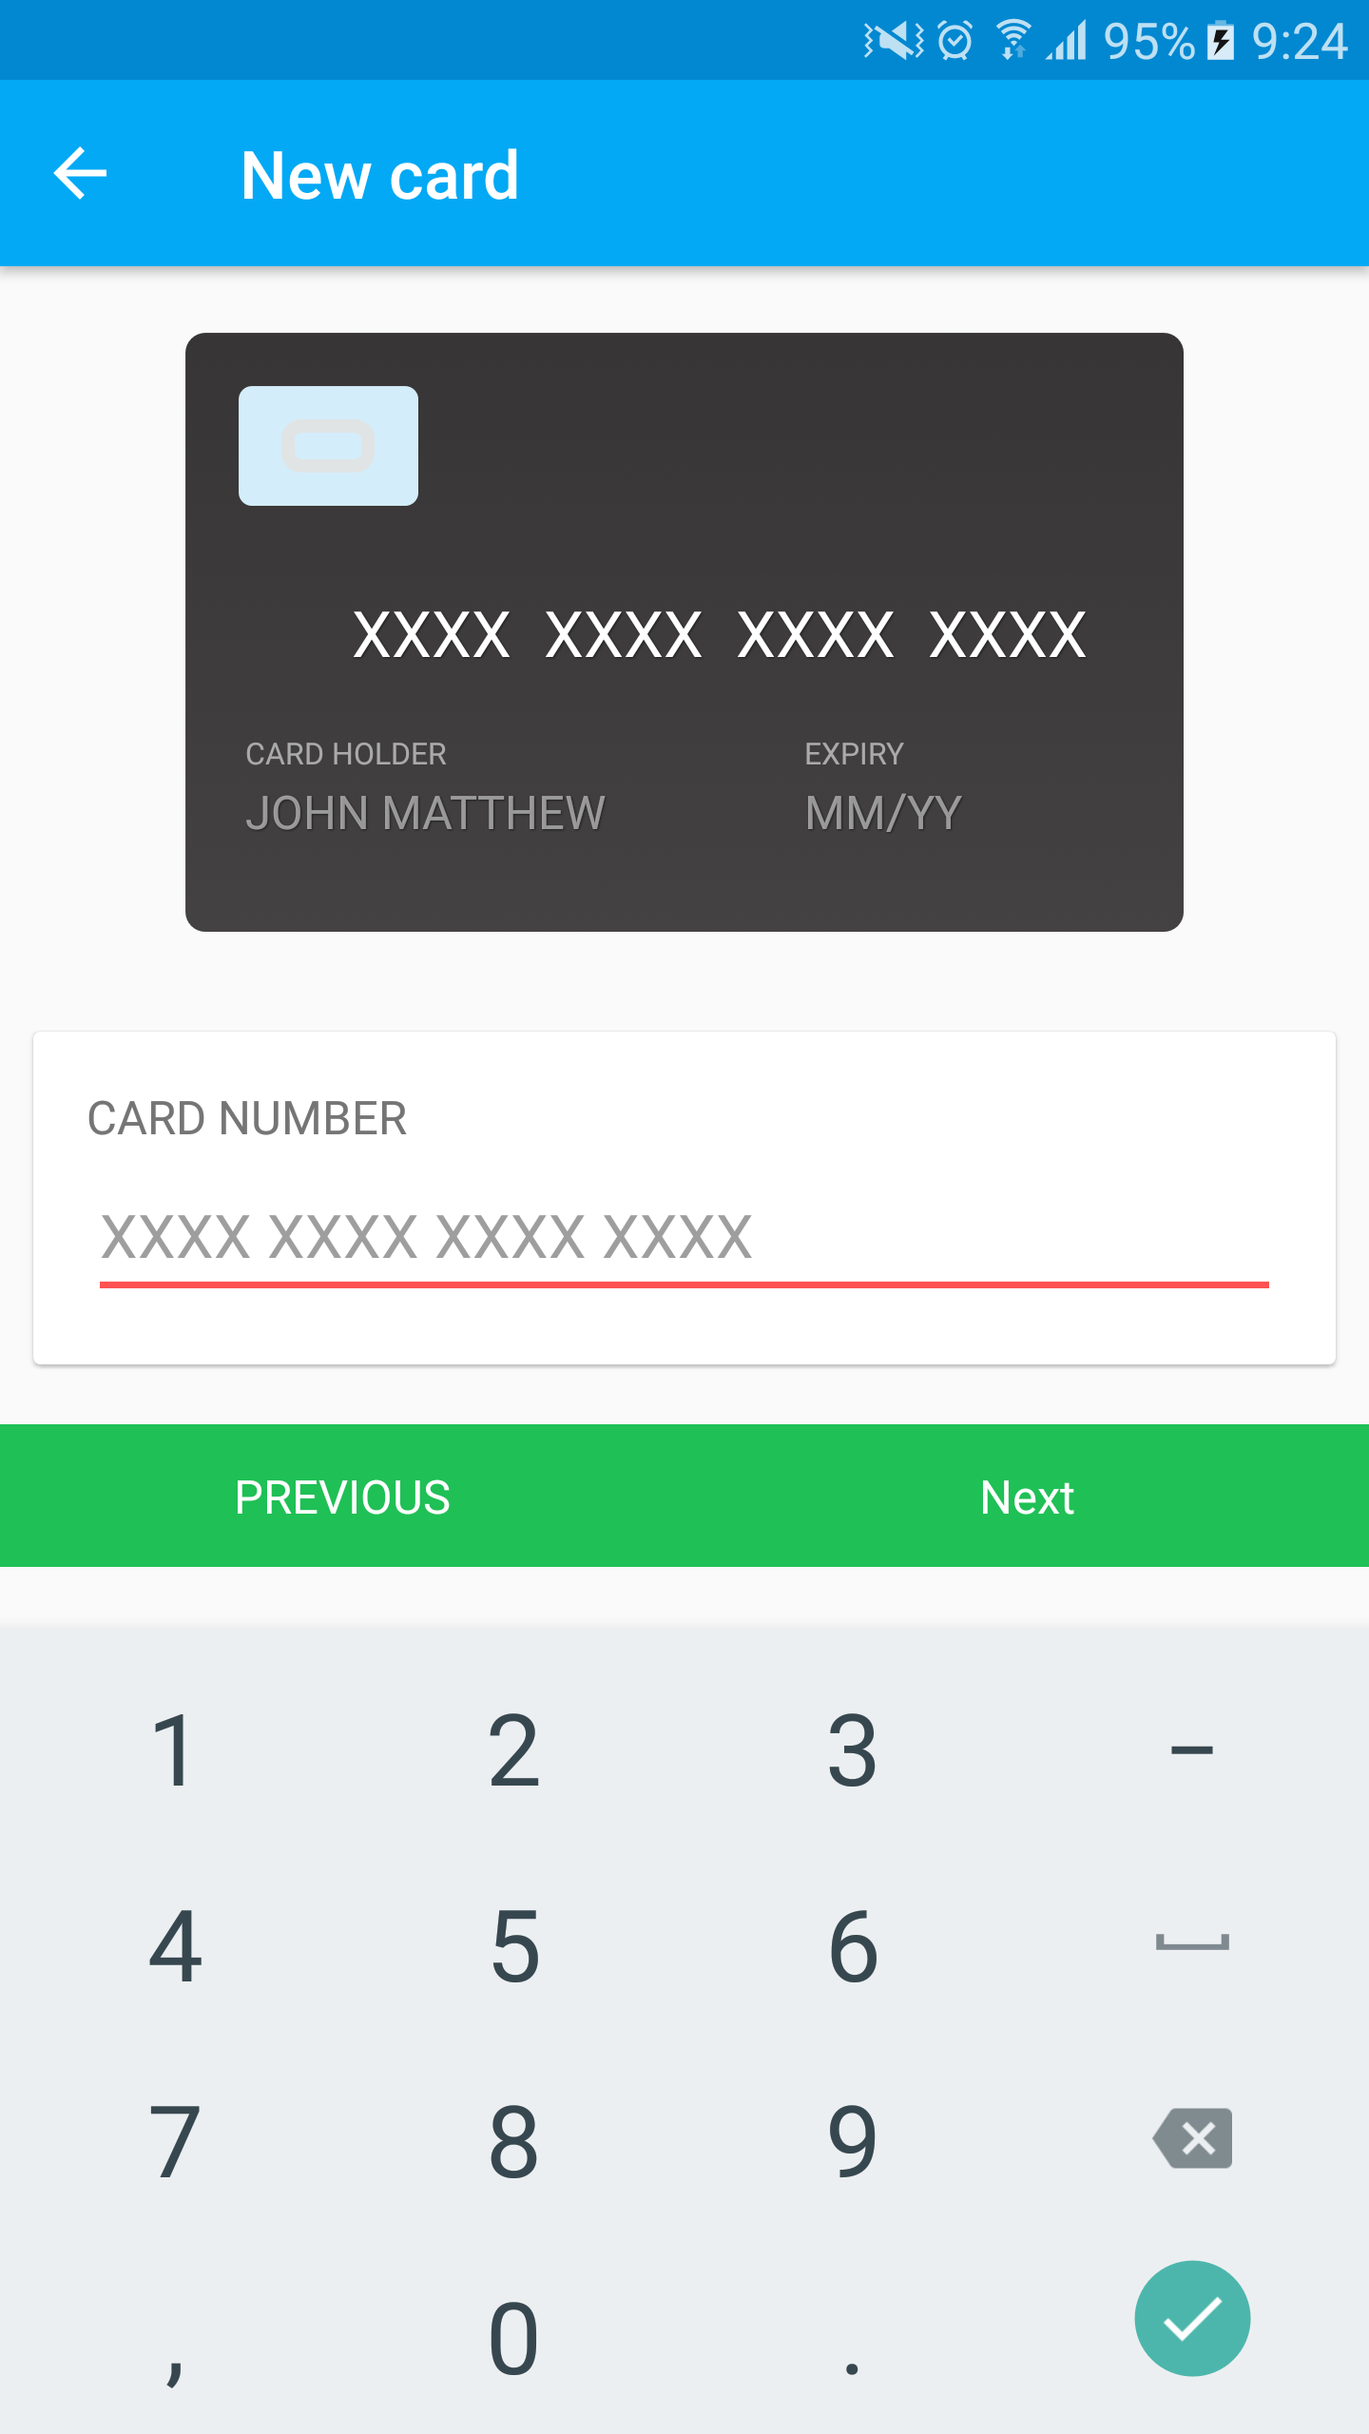
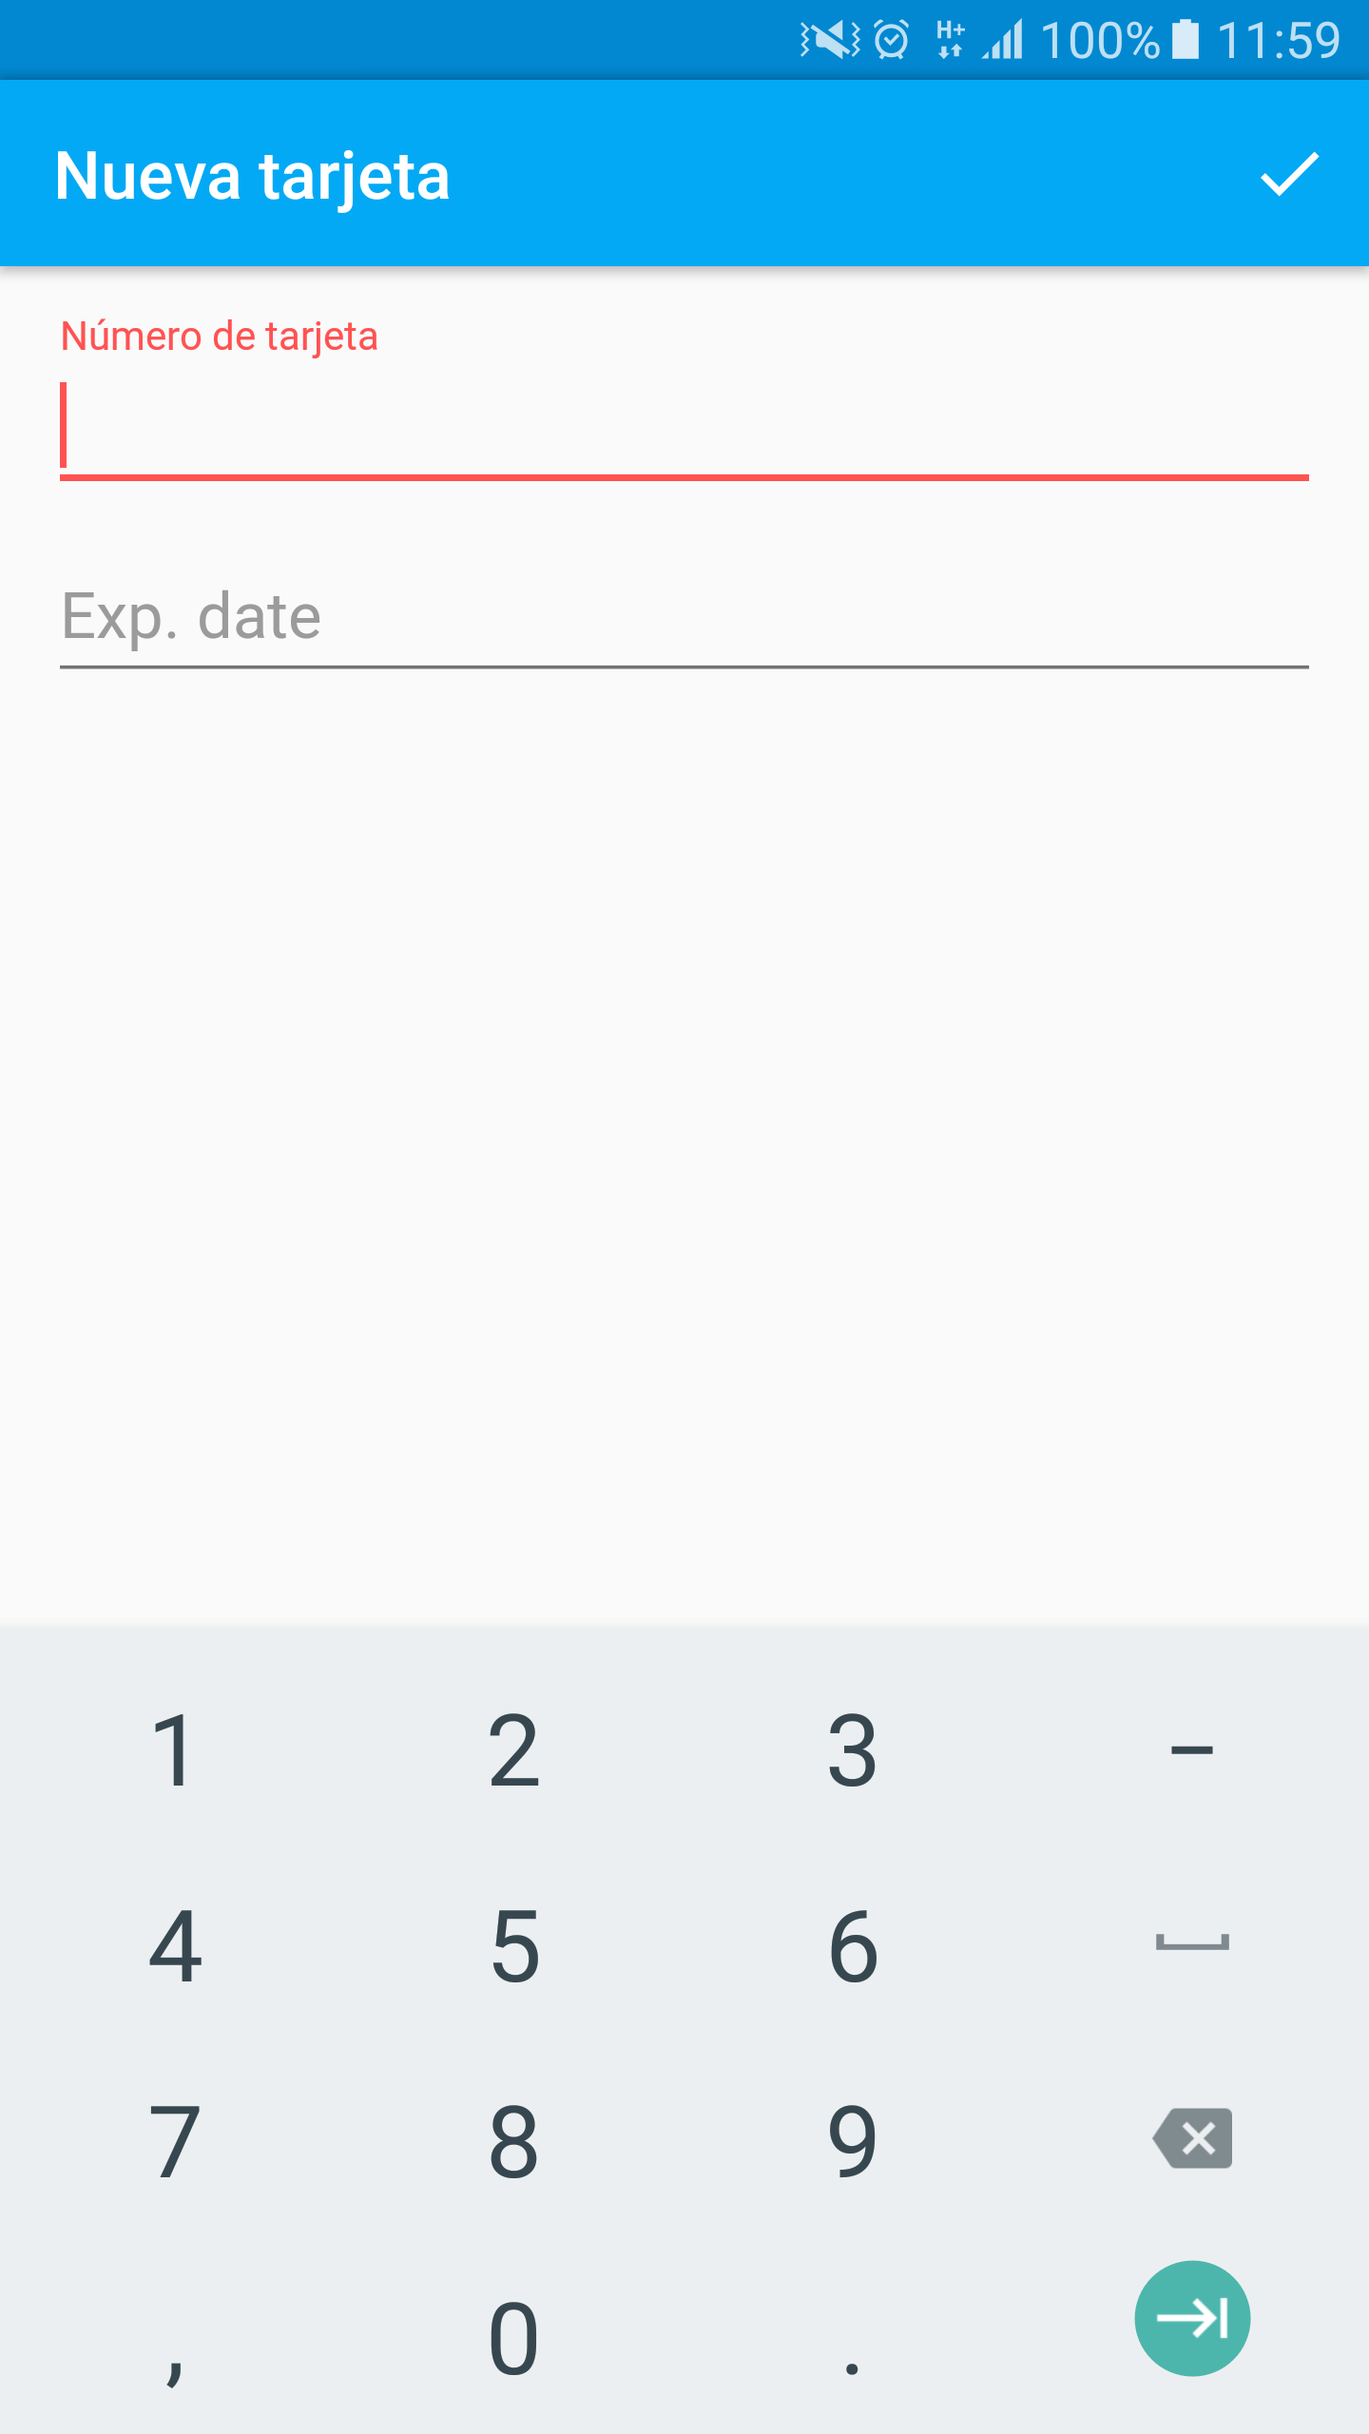
Improved card form

diff --git a/app/src/main/java/com/mrebollob/m2p/utils/CardNumberTextWatcher.kt b/app/src/main/java/com/mrebollob/m2p/utils/CardNumberTextWatcher.kt
@@ -1,0 +1,95 @@
+/*
+ * Copyright (c) 2017. Manuel Rebollo Báez
+ *
+ * Licensed under the Apache License, Version 2.0 (the "License");
+ * you may not use this file except in compliance with the License.
+ * You may obtain a copy of the License at
+ *
+ *    http://www.apache.org/licenses/LICENSE-2.0
+ *
+ * Unless required by applicable law or agreed to in writing, software
+ * distributed under the License is distributed on an "AS IS" BASIS,
+ * WITHOUT WARRANTIES OR CONDITIONS OF ANY KIND, either express or implied.
+ * See the License for the specific language governing permissions and
+ * limitations under the License.
+ */
+
+package com.mrebollob.m2p.utils
+
+import android.text.Editable
+import android.widget.EditText
+
+
+class CardNumberTextWatcher constructor(val numberEditText: EditText,
+                                        actionListener: CardActionListener)
+    : CreditCardTextWatcher(actionListener) {
+
+    val MAX_LENGTH_CARD_NUMBER_WITH_SPACES = 19
+    val MAX_LENGTH_CARD_NUMBER = 16
+    val SPACE_SEPERATOR = " "
+
+    override fun afterTextChanged(s: Editable?) {
+        val cursorPosition = numberEditText.selectionEnd
+        val previousLength = numberEditText.text.length
+
+        val cardNumber = handleCardNumber(s.toString())
+        val modifiedLength = cardNumber.length
+
+        numberEditText.removeTextChangedListener(this)
+        numberEditText.setText(cardNumber)
+        numberEditText.setSelection(if (cardNumber.length > MAX_LENGTH_CARD_NUMBER_WITH_SPACES)
+            MAX_LENGTH_CARD_NUMBER_WITH_SPACES else cardNumber.length)
+        numberEditText.addTextChangedListener(this)
+
+        if (modifiedLength <= previousLength && cursorPosition < modifiedLength) {
+            numberEditText.setSelection(cursorPosition)
+        }
+
+        if (cardNumber.replace(SPACE_SEPERATOR, "").length == MAX_LENGTH_CARD_NUMBER) {
+            onComplete()
+        }
+    }
+
+    fun handleCardNumber(inputCardNumber: String): String {
+        return handleCardNumber(inputCardNumber, " ")
+    }
+
+    fun handleCardNumber(inputCardNumber: String, seperator: String): String {
+        val formattingText = inputCardNumber.replace(seperator, "")
+        var text: String
+        if (formattingText.length >= 4) {
+            text = formattingText.substring(0, 4)
+            if (formattingText.length >= 8) {
+                text = text + seperator + formattingText.substring(4, 8)
+            } else if (formattingText.length > 4) {
+                text = text + seperator + formattingText.substring(4)
+            }
+
+            if (formattingText.length >= 12) {
+                text = text + seperator + formattingText.substring(8, 12)
+            } else if (formattingText.length > 8) {
+                text = text + seperator + formattingText.substring(8)
+            }
+
+            if (formattingText.length >= 16) {
+                text = text + seperator + formattingText.substring(12)
+            } else if (formattingText.length > 12) {
+                text = text + seperator + formattingText.substring(12)
+            }
+
+            return text
+        } else {
+            text = formattingText.trim { it <= ' ' }
+            return text
+        }
+    }
+
+    override fun getIndex(): Int {
+        return 0
+    }
+
+    override fun focus() {
+        numberEditText.requestFocus()
+        numberEditText.selectAll()
+    }
+}

diff --git a/app/src/main/java/com/mrebollob/m2p/utils/ExpDateTextWatcher.kt b/app/src/main/java/com/mrebollob/m2p/utils/ExpDateTextWatcher.kt
@@ -17,27 +17,89 @@
 package com.mrebollob.m2p.utils
 
 import android.content.Context
-import android.text.Editable
-import android.text.TextWatcher
-import android.widget.TextView
+import android.widget.EditText
+import com.cooltechworks.creditcarddesign.CreditCardUtils
+import com.mrebollob.m2p.R
 import java.util.*
 
 
-class ExpDateTextWatcher constructor(val context: Context, val cardExpiryView: TextView) : TextWatcher {
+class ExpDateTextWatcher constructor(val context: Context, val dateEditText: EditText,
+                                     actionListener: CardActionListener)
+    : CreditCardTextWatcher(actionListener) {
 
-    private var current = ""
-    private val ddmmyyyy = "DDMMYYYY"
-    private val cal = Calendar.getInstance()
-
-    override fun afterTextChanged(s: Editable?) {
-
-    }
-
-    override fun beforeTextChanged(s: CharSequence?, start: Int, count: Int, after: Int) {
-
-    }
+    private val mValidateCard = true
 
     override fun onTextChanged(s: CharSequence?, start: Int, before: Int, count: Int) {
+        var text = s.toString().replace(CreditCardUtils.SLASH_SEPERATOR, "")
 
+        val month: String
+        var year = ""
+        if (text.length >= 2) {
+            month = text.substring(0, 2)
+
+            if (text.length > 2) {
+                year = text.substring(2)
+            }
+
+            if (mValidateCard) {
+                val mm = Integer.parseInt(month)
+
+                if (mm <= 0 || mm >= 13) {
+                    dateEditText.error = context.getString(R.string.error_invalid_month)
+                    return
+                }
+
+                if (text.length >= 4) {
+
+                    val yy = Integer.parseInt(year)
+
+                    val calendar = Calendar.getInstance()
+                    val currentYear = calendar.get(Calendar.YEAR)
+                    val currentMonth = calendar.get(Calendar.MONTH) + 1
+
+                    val millenium = currentYear / 1000 * 1000
+
+
+                    if (yy + millenium < currentYear) {
+                        dateEditText.error = context.getString(R.string.error_card_expired)
+                        return
+                    } else if (yy + millenium == currentYear && mm < currentMonth) {
+                        dateEditText.error = context.getString(R.string.error_card_expired)
+                        return
+                    }
+                }
+            }
+        } else {
+            month = text
+        }
+
+        val previousLength = dateEditText.text.length
+        val cursorPosition = dateEditText.selectionEnd
+
+        text = CreditCardUtils.handleExpiration(month, year)
+
+        dateEditText.removeTextChangedListener(this)
+        dateEditText.setText(text)
+        dateEditText.setSelection(text.length)
+        dateEditText.addTextChangedListener(this)
+
+        val modifiedLength = text.length
+
+        if (modifiedLength <= previousLength && cursorPosition < modifiedLength) {
+            dateEditText.setSelection(cursorPosition)
+        }
+
+        if (text.length == 5) {
+            onComplete()
+        }
+    }
+
+    override fun getIndex(): Int {
+        return 1
+    }
+
+    override fun focus() {
+        dateEditText.requestFocus()
+        dateEditText.selectAll()
     }
 }

diff --git a/app/src/main/java/com/mrebollob/m2p/presentation/view/form/FormActivity.kt b/app/src/main/java/com/mrebollob/m2p/presentation/view/form/FormActivity.kt
@@ -17,36 +17,58 @@
 package com.mrebollob.m2p.presentation.view.form
 
 import android.app.Activity
+import android.content.Context
 import android.content.Intent
 import android.os.Bundle
+import android.os.Handler
 import android.support.design.widget.Snackbar
 import android.view.Menu
 import android.view.MenuItem
+import android.view.View
+import android.view.inputmethod.InputMethodManager
 import com.mrebollob.m2p.R
 import com.mrebollob.m2p.presentation.presenter.form.FormPresenter
 import com.mrebollob.m2p.presentation.view.BaseActivity
+import com.mrebollob.m2p.utils.CardNumberTextWatcher
+import com.mrebollob.m2p.utils.CreditCardTextWatcher
 import com.mrebollob.m2p.utils.ExpDateTextWatcher
 import kotlinx.android.synthetic.main.activity_form.*
 import kotlinx.android.synthetic.main.toolbar.*
 import javax.inject.Inject
 
 
-class FormActivity : BaseActivity(), FormMvpView {
+class FormActivity : BaseActivity(), FormMvpView, CreditCardTextWatcher.CardActionListener {
 
-    var isNewActivity = false
     @Inject lateinit var mPresenter: FormPresenter
+    var isNewActivity = false
+    var expDateTextWatcher: ExpDateTextWatcher? = null
 
     override fun onCreate(savedInstanceState: Bundle?) {
         super.onCreate(savedInstanceState)
         setContentView(R.layout.activity_form)
         initializeDependencyInjector()
         isNewActivity = (savedInstanceState == null)
+
         initUI()
     }
 
     private fun initUI() {
         setSupportActionBar(toolbar)
-        expDateEt.addTextChangedListener(ExpDateTextWatcher(this, expDateEt))
+        showInputMethod(numberEt)
+
+        val cardNumberTextWatcher = CardNumberTextWatcher(numberEt, this)
+        numberEt.addTextChangedListener(cardNumberTextWatcher)
+        expDateTextWatcher = ExpDateTextWatcher(this, expDateEt, this)
+        expDateEt.addTextChangedListener(expDateTextWatcher)
+    }
+
+    fun showInputMethod(view: View) {
+        Handler().postDelayed({
+            view.isFocusableInTouchMode = true
+            view.requestFocus()
+            val imm = getSystemService(Context.INPUT_METHOD_SERVICE) as InputMethodManager
+            imm.showSoftInput(numberEt, InputMethodManager.SHOW_IMPLICIT)
+        }, 200)
     }
 
     private fun initializeDependencyInjector() {
@@ -68,13 +90,26 @@ class FormActivity : BaseActivity(), FormMvpView {
         }
     }
 
+    override fun onComplete(index: Int) {
+        if (index == 0) {
+            expDateTextWatcher?.focus()
+        }
+    }
+
     private fun updateCreditCard() {
-        mPresenter.updateCreditCard(numberEt.text.toString(), expDateEt.text.toString())
+        mPresenter.updateCreditCard(numberEt.text.toString().replace(" ", ""),
+                expDateEt.text.toString())
     }
 
     override fun showCreditCard(number: String?, expDate: String?) {
         numberEt.setText(number)
         expDateEt.setText(expDate)
+
+        if (number.isNullOrBlank()) {
+            title = getString(R.string.new_card)
+        } else {
+            title = getString(R.string.edit_card)
+        }
     }
 
     override fun showCardBalanceView() {

diff --git a/app/src/main/java/com/mrebollob/m2p/presentation/view/main/MainActivity.kt b/app/src/main/java/com/mrebollob/m2p/presentation/view/main/MainActivity.kt
@@ -20,6 +20,7 @@ import android.app.Activity
 import android.content.Context
 import android.content.Intent
 import android.os.Bundle
+import android.support.v4.content.ContextCompat
 import android.support.v4.widget.SwipeRefreshLayout
 import com.mrebollob.m2p.R
 import com.mrebollob.m2p.domain.entities.CreditCard
@@ -68,6 +69,8 @@ class MainActivity : BaseActivity(), MainMvpView, SwipeRefreshLayout.OnRefreshLi
         creditCardView.cardHolderName = "M2P"
         creditCardView.cardNumber = creditCard.number
         creditCardView.setCardExpiry(creditCard.expDate)
+
+        fab.setImageDrawable(ContextCompat.getDrawable(this, R.drawable.ic_edit))
     }
 
     override fun showCardBalance(creditCardBalance: CreditCardBalance) {
@@ -75,6 +78,17 @@ class MainActivity : BaseActivity(), MainMvpView, SwipeRefreshLayout.OnRefreshLi
         dataView.visible()
 
         cardBalanceTv.text = getString(R.string.balance_format, creditCardBalance.balance)
+    }
+
+    override fun showEmptyCreditCard() {
+        creditCardView.cardHolderName = "M2P"
+        creditCardView.cardNumber = ""
+        creditCardView.setCardExpiry("")
+        fab.setImageDrawable(ContextCompat.getDrawable(this, R.drawable.ic_add))
+
+        errorView.gone()
+        dataView.visible()
+        cardBalanceTv.text = "Añade una tarjeta"
     }
 
     override fun showError(error: String) {

diff --git a/app/src/main/java/com/mrebollob/m2p/utils/CreditCardTextWatcher.kt b/app/src/main/java/com/mrebollob/m2p/utils/CreditCardTextWatcher.kt
@@ -1,0 +1,50 @@
+/*
+ * Copyright (c) 2017. Manuel Rebollo Báez
+ *
+ * Licensed under the Apache License, Version 2.0 (the "License");
+ * you may not use this file except in compliance with the License.
+ * You may obtain a copy of the License at
+ *
+ *    http://www.apache.org/licenses/LICENSE-2.0
+ *
+ * Unless required by applicable law or agreed to in writing, software
+ * distributed under the License is distributed on an "AS IS" BASIS,
+ * WITHOUT WARRANTIES OR CONDITIONS OF ANY KIND, either express or implied.
+ * See the License for the specific language governing permissions and
+ * limitations under the License.
+ */
+
+package com.mrebollob.m2p.utils
+
+import android.text.Editable
+import android.text.TextWatcher
+
+
+abstract class CreditCardTextWatcher constructor(val actionListener: CardActionListener)
+    : TextWatcher {
+
+    override fun afterTextChanged(s: Editable?) {
+
+    }
+
+    override fun beforeTextChanged(s: CharSequence?, start: Int, count: Int, after: Int) {
+
+    }
+
+    override fun onTextChanged(s: CharSequence?, start: Int, before: Int, count: Int) {
+
+    }
+
+    abstract fun focus()
+
+    abstract fun getIndex(): Int
+
+    fun onComplete() {
+        actionListener.onComplete(getIndex())
+    }
+
+    interface CardActionListener {
+
+        fun onComplete(index: Int)
+    }
+}

diff --git a/app/src/main/java/com/mrebollob/m2p/presentation/presenter/main/MainPresenter.kt b/app/src/main/java/com/mrebollob/m2p/presentation/presenter/main/MainPresenter.kt
@@ -84,7 +84,7 @@ class MainPresenter @Inject constructor(val getCreditCardBalance: GetCreditCardB
 
         override fun onError(e: Throwable?) {
             if (e is NoCreditCardException) {
-                mView?.showCreditCardForm(mCreditCard?.number, mCreditCard?.expDate)
+                mView?.showEmptyCreditCard()
             } else {
                 mView?.showError("Unknown error")
             }

diff --git a/app/src/main/java/com/mrebollob/m2p/presentation/view/main/MainMvpView.kt b/app/src/main/java/com/mrebollob/m2p/presentation/view/main/MainMvpView.kt
@@ -27,6 +27,8 @@ interface MainMvpView : MvpView {
 
     fun showCardBalance(creditCardBalance: CreditCardBalance)
 
+    fun showEmptyCreditCard()
+
     fun showError(error: String)
 
     fun showCreditCardForm(number: String?, expDate: String?)
